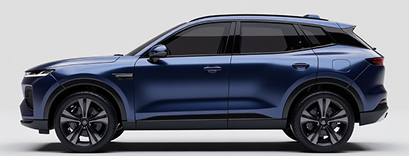
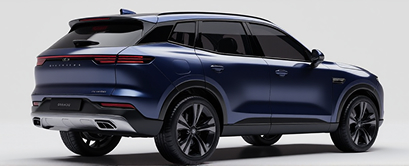
Develop2 ver

diff --git a/script.js b/script.js
@@ -14,7 +14,7 @@ const researchData = {
                 name: "SUV (기본형)",
                 modelSrc: "assets/싱글뷰 suv.glb",
                 images: ["assets/싱글뷰 이미지.jpg"],
-                cameraOrbits: ["45deg 75deg auto"],
+                cameraOrbits: ["30deg 75deg auto"],
                 prompt: "A realistic conceptual sketch of a modern SUV, sleek aerodynamic design, silver gradient color, dramatic studio lighting, single front-side view.",
                 models: "<strong style='color:#60a5fa;'>[싱글뷰 이미지 생성]</strong>\n- Base: Flux.1 Dev\n- 생성 방식: 싱글 이미지 스케치\n\n<strong style='color:#f472b6;'>[3D 모델 생성]</strong>\n- 3D Model: 훈유안 3D 3.0 모델",
                 info: { model: "Hunyuan 3.0", method: "싱글뷰 이미지", views: "프론트 쿼터뷰" }
@@ -24,7 +24,7 @@ const researchData = {
                 name: "Pick-up Truck (픽업트럭)",
                 modelSrc: "assets/싱글뷰 pick up.glb",
                 images: ["assets/싱글뷰 이미지 2.png"],
-                cameraOrbits: ["45deg 75deg auto"],
+                cameraOrbits: ["30deg 75deg auto"],
                 prompt: "A realistic conceptual sketch of a rugged heavy-duty modern pick-up truck, industrial off-road design, strong structural consistency, single front-side view.",
                 models: "<strong style='color:#60a5fa;'>[싱글뷰 이미지 생성]</strong>\n- Base: Flux.1 Dev\n- 생성 방식: 싱글 이미지 스케치\n\n<strong style='color:#f472b6;'>[3D 모델 생성]</strong>\n- 3D Model: 훈유안 3D 3.0 모델",
                 info: { model: "Hunyuan 3.0", method: "싱글뷰 이미지", views: "프론트 쿼터뷰" }
@@ -45,7 +45,7 @@ const researchData = {
                 name: "SUV (기본형)",
                 modelSrc: "assets/멀티뷰 1.glb",
                 images: ["assets/멀티뷰 이미지 (1).jpg", "assets/멀티뷰 이미지 (2).jpg", "assets/멀티뷰 이미지 (3).jpg"],
-                cameraOrbits: ["45deg 75deg auto", "135deg 75deg auto", "90deg 75deg auto"],
+                cameraOrbits: ["30deg 75deg auto", "90deg 75deg auto", "150deg 75deg auto"],
                 prompt: "A realistic conceptual sketch of a modern SUV, separated into 3 orthographic views: precise front view, precise side view, explicit rear view. High structural consistency, architectural blueprint style.",
                 models: "<strong style='color:#60a5fa;'>[멀티뷰 이미지 생성]</strong>\n- Base: Flux.1 Dev\n- LoRA: 자체 학습 멀티뷰 LoRA\n- 생성 방식: 멀티뷰 단일 이미지 크롭 방식\n\n<strong style='color:#f472b6;'>[3D 모델 생성]</strong>\n- 3D Model: 훈유안 3D 3.0 모델",
                 info: { model: "Hunyuan 3.0", method: "멀티뷰 이미지", views: "프론트 쿼터, 사이드, 백쿼터뷰" }
@@ -55,7 +55,7 @@ const researchData = {
                 name: "Pick-up Truck (픽업트럭)",
                 modelSrc: "assets/멀티뷰 2.glb",
                 images: ["assets/멀티뷰 이미지2 (1).png", "assets/멀티뷰 이미지2 (2).png", "assets/멀티뷰 이미지2 (3).png"],
-                cameraOrbits: ["45deg 75deg auto", "90deg 75deg auto", "135deg 75deg auto"],
+                cameraOrbits: ["30deg 75deg auto", "90deg 75deg auto", "150deg 75deg auto"],
                 prompt: "A realistic conceptual sketch of a rugged heavy-duty modern pick-up truck, separated into 3 orthographic views: precise front view, precise side view, explicit rear view. Industrial off-road design, strong structural consistency, blueprint style rendering.",
                 models: "<strong style='color:#60a5fa;'>[멀티뷰 이미지 생성]</strong>\n- Base: Flux.1 Dev\n- LoRA: 자체 학습 멀티뷰 LoRA\n- 생성 방식: 멀티뷰 단일 이미지 크롭 방식\n\n<strong style='color:#f472b6;'>[3D 모델 생성]</strong>\n- 3D Model: 훈유안 3D 3.0 모델",
                 info: { model: "Hunyuan 3.0", method: "멀티뷰 이미지", views: "프론트 쿼터, 사이드, 백쿼터뷰" }
@@ -152,6 +152,7 @@ const researchData = {
 
 let currentCase = 'workflow';
 let currentSubModel = 'suv';
+let activePartsVariations = { front: 0, rear: 0, wheel: 0 };
 
 function updateUI() {
     const workflowView = document.getElementById('workflow-view');
@@ -239,9 +240,11 @@ function updateUI() {
         subGallery.querySelectorAll('.sub-item').forEach(item => {
             item.onclick = () => {
                 const idx = item.getAttribute('data-index');
+                activePartsVariations[data.id] = parseInt(idx);
                 const variation = data.variations[idx];
 
                 // Update UI state
+                maskImg.classList.remove('active');
                 subGallery.querySelectorAll('.sub-item').forEach(si => si.classList.remove('active'));
                 item.classList.add('active');
 
@@ -255,6 +258,11 @@ function updateUI() {
                 if (variation.modelSrc) {
                     viewer.src = variation.modelSrc;
                     posterState.style.display = 'none';
+                    if (viewer.hasAttribute('auto-rotate')) {
+                        viewer.removeAttribute('auto-rotate');
+                        const btnRotate = document.getElementById('btn-rotate');
+                        if (btnRotate) btnRotate.classList.remove('active');
+                    }
                 }
 
                 // Update Side Panel Info (Prompt & Models) for Parts Variation
@@ -267,8 +275,14 @@ function updateUI() {
             };
         });
 
-        // Initial state for parts
-        if (previewImg) previewImg.src = data.maskingImage;
+        // Initial state for parts: Auto-select previously viewed or first variation
+        const activeIdx = activePartsVariations[data.id] !== undefined ? activePartsVariations[data.id] : 0;
+        const targetSubItem = subGallery.querySelectorAll('.sub-item')[activeIdx];
+        if (targetSubItem) {
+            targetSubItem.click();
+        } else if (previewImg) {
+            previewImg.src = data.maskingImage;
+        }
 
     } else {
         // Default Logic for Single/Multi View
@@ -283,6 +297,7 @@ function updateUI() {
 
                 if (data.cameraOrbits && data.cameraOrbits[0]) {
                     const viewer = document.getElementById('car-model');
+                    if (typeof viewer.resetTurntableRotation === 'function') viewer.resetTurntableRotation();
                     const orbitParts = data.cameraOrbits[0].split(' ');
                     const theta = parseFloat(orbitParts[0]) + (Math.random() * 0.001);
                     viewer.setAttribute('camera-orbit', `${theta}deg ${orbitParts[1]} ${orbitParts[2]}`);
@@ -313,9 +328,15 @@ function updateUI() {
                 // Rotate the 3D viewer camera to match the selected image
                 if (data.cameraOrbits && data.cameraOrbits[idx]) {
                     const viewer = document.getElementById('car-model');
+                    if (typeof viewer.resetTurntableRotation === 'function') viewer.resetTurntableRotation();
                     const orbitParts = data.cameraOrbits[idx].split(' ');
                     const theta = parseFloat(orbitParts[0]) + (Math.random() * 0.001);
                     viewer.setAttribute('camera-orbit', `${theta}deg ${orbitParts[1]} ${orbitParts[2]}`);
+                    if (viewer.hasAttribute('auto-rotate')) {
+                        viewer.removeAttribute('auto-rotate');
+                        const btnRotate = document.getElementById('btn-rotate');
+                        if (btnRotate) btnRotate.classList.remove('active');
+                    }
                 }
             };
             imgContainer.appendChild(thumb);
@@ -331,6 +352,12 @@ function updateUI() {
         document.getElementById('stat-gen-model').textContent = data.info.model;
         document.getElementById('stat-gen-method').textContent = data.info.method;
         document.getElementById('stat-gen-views').textContent = data.info.views;
+    }
+
+    // Initial Dimming and Interaction requirement
+    if (!window.firstInteractionHandled && (currentCase === 'single' || currentCase === 'multi')) {
+        document.body.classList.add('dim-ui');
+        window.firstInteractionHandled = true; // Only trigger this dimming once
     }
 
     // Update Top-Left Mini Workflow Box
@@ -796,6 +823,16 @@ const miniBox = document.querySelector('.mini-workflow-box');
 if (carModel && miniBox) {
     carModel.addEventListener('pointerdown', () => {
         miniBox.classList.add('faded');
+        
+        // Handle un-dimming and initial interaction
+        if (document.body.classList.contains('dim-ui')) {
+            document.body.classList.remove('dim-ui');
+            setTimeout(() => {
+                if (typeof window.showBottomControlsHighlight === 'function') {
+                    window.showBottomControlsHighlight();
+                }
+            }, 1000);
+        }
     });
 
     // Listen on window to catch pointer up even if cursor moves outside the viewer
@@ -803,3 +840,53 @@ if (carModel && miniBox) {
         miniBox.classList.remove('faded');
     });
 }
+
+// --- Full screen (Focus Mode) Toggle ---
+const btnFullscreen = document.getElementById('btn-fullscreen');
+const btnExitFullscreen = document.getElementById('btn-exit-fullscreen');
+
+if (btnFullscreen) {
+    btnFullscreen.addEventListener('click', () => {
+        document.body.classList.add('focus-mode');
+        if (btnExitFullscreen) btnExitFullscreen.style.display = 'flex';
+    });
+}
+
+if (btnExitFullscreen) {
+    btnExitFullscreen.addEventListener('click', () => {
+        document.body.classList.remove('focus-mode');
+        btnExitFullscreen.style.display = 'none';
+    });
+}
+
+// --- Interactive Tooltip Logic ---
+window.controlsTooltipShown = false;
+window.firstInteractionHandled = false;
+
+window.showBottomControlsHighlight = function() {
+    if (window.controlsTooltipShown) return;
+    const tooltip = document.getElementById('controls-tooltip');
+    const bottomControls = document.querySelector('.bottom-controls');
+    
+    if (tooltip && bottomControls && (currentCase === 'single' || currentCase === 'multi')) {
+        window.controlsTooltipShown = true;
+        tooltip.classList.add('show');
+        bottomControls.classList.add('highlight-flash');
+        
+        // Auto-hide after 8 seconds
+        setTimeout(() => {
+            tooltip.classList.remove('show');
+            bottomControls.classList.remove('highlight-flash');
+        }, 8000);
+    }
+};
+
+// Hide immediately if any bottom control is clicked
+document.querySelectorAll('.bottom-controls .ctrl-btn').forEach(btn => {
+    btn.addEventListener('click', () => {
+        const tooltip = document.getElementById('controls-tooltip');
+        const bottomControls = document.querySelector('.bottom-controls');
+        if (tooltip) tooltip.classList.remove('show');
+        if (bottomControls) bottomControls.classList.remove('highlight-flash');
+    });
+});

diff --git a/index.html b/index.html
@@ -25,7 +25,7 @@
          </div>
          <div class="case-tabs">
             <button class="tab active" data-case="workflow">워크플로우 (Workflow)</button>
-            <button class="tab" data-case="single">싱글뷰 이미지 (Baseline)</button>
+            <button class="tab" data-case="single">싱글뷰 (Baseline)</button>
             <button class="tab" data-case="multi">멀티뷰 (Proposed)</button>
             <button class="tab" data-case="parts">파츠 변형 (Application)</button>
          </div>
@@ -41,11 +41,13 @@
             <section class="wf-intro-section wf-scroll-section">
                <h2 class="wf-intro-title">안녕하세요. 전문가님</h2>
                <p class="wf-intro-text" style="color: #e4e4e7; font-weight: 400;">
-                  본 뷰어는 생성형 AI 기반 자동차 디자인 프로세스에서, 단일 시점 입력의 한계를 극복하기 위한 <strong style="color:#60a5fa;">'입력 이미지 설계·통제 전략'</strong>의 유효성을 평가하기 위한 연구 도구입니다.
+                  본 뷰어는 생성형 AI 기반 자동차 디자인 프로세스에서, 단일 시점 입력의 한계를 극복하기 위한 <strong style="color:#60a5fa;">'입력 이미지 설계·통제
+                     전략'</strong>의 유효성을 평가하기 위한 연구 도구입니다.
                </p>
 
                <p class="wf-intro-text" style="color: #e4e4e7; font-weight: 400;">
-                  본 연구는 3D 생성 모델의 절대적인 메쉬(Mesh) 품질을 비교하는 것이 아닙니다. 멀티뷰 구성을 통한 비가시 영역(후면)의 조형 반영과 인페인팅 기반 파츠 단위 변형의 통제 가능성이 실제 자동차 초기 디자인 발산 및 3D 검증 단계에서 실무적으로 유의미한지 워크플로우 관점에서 평가해 주시기 바랍니다.
+                  본 연구는 3D 생성 모델의 절대적인 메쉬(Mesh) 품질을 비교하는 것이 아닙니다. 멀티뷰 구성을 통한 비가시 영역(후면)의 조형 반영과 인페인팅 기반 파츠 단위 변형의 통제
+                  가능성이 실제 자동차 초기 디자인 발산 및 3D 검증 단계에서 실무적으로 유의미한지 워크플로우 관점에서 평가해 주시기 바랍니다.
                </p>
 
                <p class="wf-intro-text" style="color: #e4e4e7; font-weight: 500;">
@@ -55,9 +57,12 @@
                </p>
 
                <ul class="wf-intro-list">
-                  <li><strong style="color: #a1a1aa;">싱글뷰 이미지 (기준 모델):</strong> 측·후면 조형 정보가 부족할 때, 3D 생성에서 나타나는 형태 생략이나 구조적 한계 확인</li>
-                  <li><strong style="color: #a1a1aa;">멀티뷰 (다중 시점 전략):</strong> 후면 디자인 정보의 명확한 반영과, 전·측·후 시점 간 조형 일관성 유지 여부 확인</li>
-                  <li><strong style="color: #a1a1aa;">파츠 변형 (인페인팅 전개 전략):</strong> 차선의 기본 비례와 정체성을 유지한 채, 타겟 파츠의 디자인 변화만 3D에 수평 전개되는지 확인</li>
+                  <li><strong style="color: #a1a1aa;">싱글뷰 이미지 (기준 모델):</strong> 측·후면 조형 정보가 부족할 때, 3D 생성에서 나타나는 형태 생략이나
+                     구조적 한계 확인</li>
+                  <li><strong style="color: #a1a1aa;">멀티뷰 (다중 시점 전략):</strong> 후면 디자인 정보의 명확한 반영과, 전·측·후 시점 간 조형 일관성 유지
+                     여부 확인</li>
+                  <li><strong style="color: #a1a1aa;">파츠 변형 (인페인팅 전개 전략):</strong> 차선의 기본 비례와 정체성을 유지한 채, 타겟 파츠의 디자인 변화만
+                     3D에 수평 전개되는지 확인</li>
                </ul>
 
                <!-- Scroll indicator -->
@@ -315,6 +320,17 @@
                <img id="preview-image" src="" alt="Reference Preview">
             </div>
 
+            <button id="btn-exit-fullscreen"
+               style="display: none; position: absolute; top: 120px; left: 30px; z-index: 10000; background: rgba(0,0,0,0.7); border: 2px solid #60a5fa; box-shadow: 0 0 15px rgba(96,165,250,0.4); color: #fff; width: 48px; height: 48px; border-radius: 12px; cursor: pointer; align-items: center; justify-content: center; transition: 0.2s;"
+               title="Exit Focus Mode">
+               <svg width="24" height="24" viewBox="0 0 24 24" fill="none" stroke="currentColor" stroke-width="2">
+                  <path d="M18 6L6 18M6 6l12 12"></path>
+               </svg>
+            </button>
+            <!-- Interactive Tooltip -->
+            <div class="controls-tooltip" id="controls-tooltip">
+               ✨ 하단 기능을 통해 지브라, 재질, 전체 화면 등 다양한 표시 모드를 변환하며 살펴보세요!
+            </div>
             <!-- Bottom visual controls (mockup for realism) -->
             <div class="bottom-controls">
                <button id="btn-rotate" class="ctrl-btn active" title="Rotate View (Toggle)"><svg width="18" height="18"
@@ -326,6 +342,13 @@
                   <svg width="20" height="20" viewBox="0 0 24 24" fill="none" stroke="currentColor" stroke-width="2">
                      <path d="M3 3h18v18H3z" stroke-dasharray="2 2" />
                      <path d="M7 3v18M12 3v18M17 3v18" />
+                  </svg>
+               </button>
+               <button id="btn-fullscreen" class="ctrl-btn" title="Focus Mode">
+                  <svg width="18" height="18" viewBox="0 0 24 24" fill="none" stroke="currentColor" stroke-width="2">
+                     <path
+                        d="M8 3H5a2 2 0 0 0-2 2v3m18 0V5a2 2 0 0 0-2-2h-3m0 18h3a2 2 0 0 0 2-2v-3M3 16v3a2 2 0 0 0 2 2h3">
+                     </path>
                   </svg>
                </button>
                <button id="btn-textured" class="ctrl-btn active" title="Textured Mode">

diff --git a/style.css b/style.css
@@ -1028,3 +1028,107 @@ model-viewer {
   border-color: #60a5fa !important;
 }
 
+body.focus-mode header,
+body.focus-mode .right-sidebar,
+body.focus-mode .mini-workflow-box,
+body.focus-mode .stats-box,
+body.focus-mode .bottom-controls,
+body.focus-mode .nav-tabs {
+  display: none !important;
+}
+
+body.focus-mode {
+  overflow: hidden;
+}
+
+body.focus-mode .main-wrapper {
+  padding: 0 !important;
+  margin: 0 !important;
+  max-width: none !important;
+  width: 100vw !important;
+  height: 100vh !important;
+}
+
+body.focus-mode .viewer-area {
+  position: fixed;
+  top: 0;
+  left: 0;
+  width: 100vw !important;
+  height: 100vh !important;
+  border-radius: 0 !important;
+  z-index: 9999;
+  background: var(--bg-main);
+  margin: 0 !important;
+}
+
+body.focus-mode .image-preview-box {
+  position: absolute;
+  top: 24px;
+  right: 24px;
+  z-index: 10000;
+  transform: scale(1.4);
+  transform-origin: top right;
+  transition: transform 0.3s ease;
+}
+
+#btn-exit-fullscreen:hover {
+  background: rgba(255,255,255,0.1) !important;
+}
+
+/* Interactive Tooltip */
+.controls-tooltip {
+  position: absolute;
+  bottom: 80px;
+  left: 50%;
+  transform: translateX(-50%);
+  background: transparent;
+  color: #fff;
+  padding: 12px 24px;
+  font-size: 1.05rem;
+  font-weight: 600;
+  text-shadow: 0 2px 5px rgba(0,0,0,0.8), 0 0 10px rgba(96,165,250,0.8);
+  z-index: 9999;
+  opacity: 0;
+  pointer-events: none;
+  transition: opacity 0.5s ease;
+  white-space: nowrap;
+}
+
+body.focus-mode .controls-tooltip {
+  display: none !important;
+}
+
+.controls-tooltip.show {
+  opacity: 1;
+  pointer-events: auto;
+  animation: bounceTip 2.5s infinite ease-in-out;
+}
+
+@keyframes bounceTip {
+  0%, 100% { transform: translateX(-50%) translateY(0); }
+  50% { transform: translateX(-50%) translateY(-6px); }
+}
+
+@keyframes controlsGlow {
+  0%, 100% { box-shadow: 0 0 0 rgba(96, 165, 250, 0); border-color: rgba(255,255,255,0.1); }
+  50% { box-shadow: 0 0 25px rgba(96, 165, 250, 0.8); border-color: #60a5fa; }
+}
+
+.bottom-controls.highlight-flash {
+  animation: controlsGlow 2s infinite ease-in-out !important;
+  border: 1px solid #60a5fa !important;
+}
+
+/* Dim UI logic for initial interaction */
+body.dim-ui .right-sidebar,
+body.dim-ui .mini-workflow-box,
+body.dim-ui .stats-box,
+body.dim-ui .image-preview-box,
+body.dim-ui .nav-tabs,
+body.dim-ui .bottom-controls {
+  opacity: 0.15;
+  pointer-events: none;
+  transition: opacity 0.5s ease, filter 0.5s ease;
+  filter: blur(2px);
+}
+
